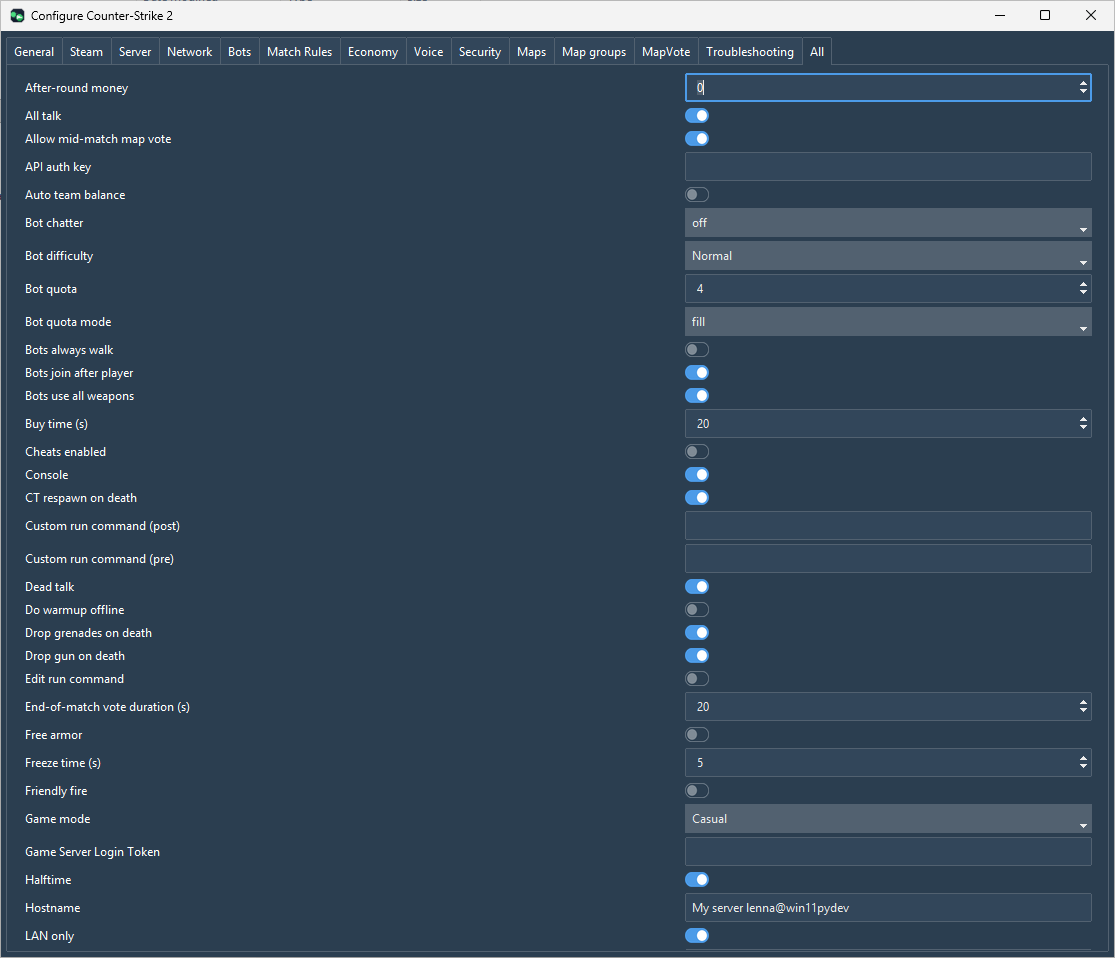
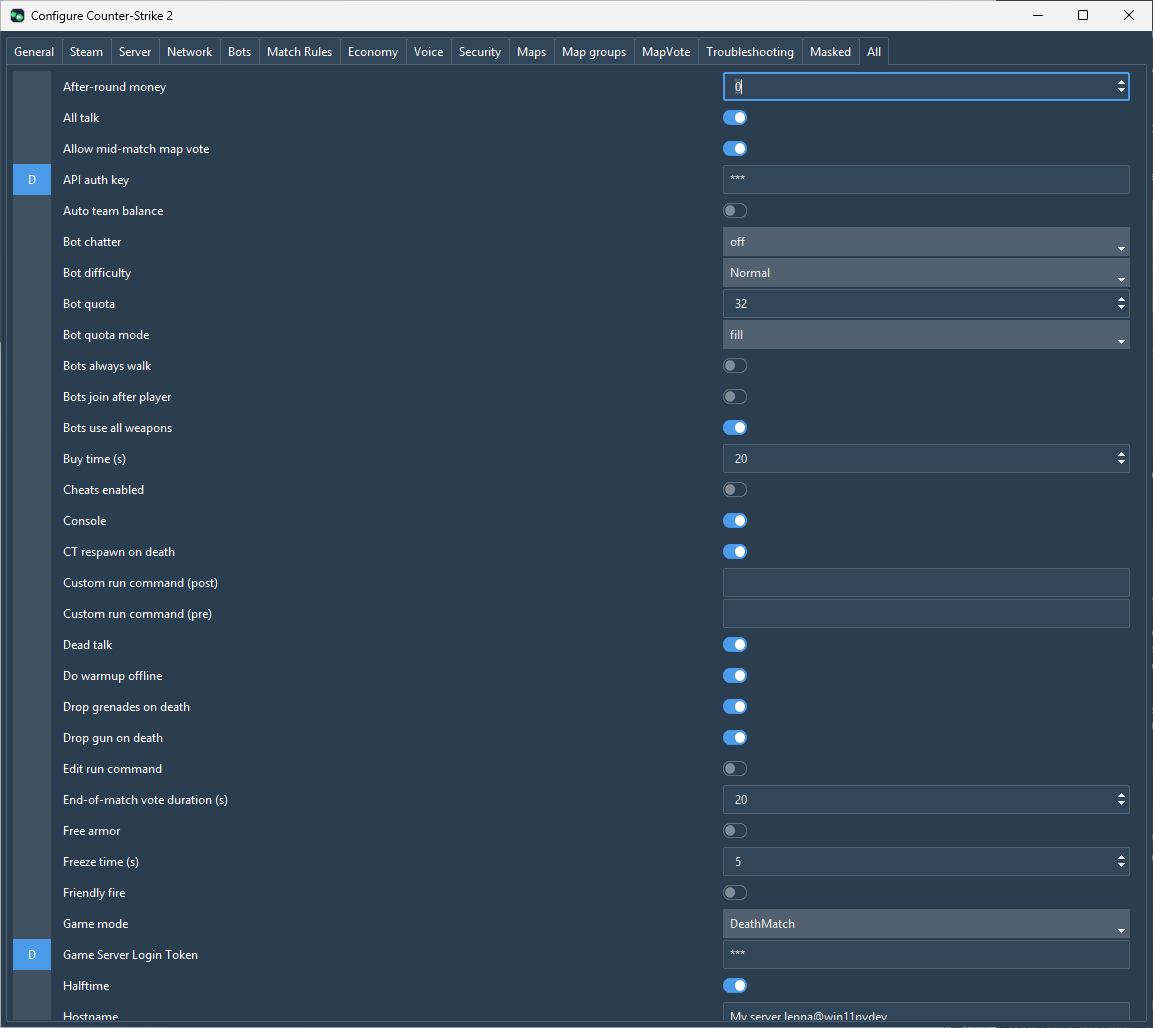
Added RCON to features + updared main window

diff --git a/FEATURES.md b/FEATURES.md
@@ -93,11 +93,17 @@ This is the typical layout of the config window. A tab for each group of paramet
 
 Config is automatically updated as you edit it, and is used directly when you start your server. There's also a manual "Save Config" button if you want to force the configuration to be saved to file. The configuration is automatically saved to file when you close the application, so it's really only necessary should you perform a large edit and the application crashes before you close it.
 
+## RCON
+
+<img src="assets/rcon_window.png" alt="RCON window">
+
+There is also an RCON window where the started server can be controlled. The RCON window contents can be saved to a file by clicking the Save button. The RCON window output will be saved in a directory "rcon_output" in the install directory.
+
 ## Terminal
 
 <img src="assets/terminal_window.png" alt="Terminal window">
 
-There is also a terminal window where all sgsl actions will end up, as well as any output from the game server. The terminal contents cant be saved to a file by clicking the Save button. The terminal output will be saved in a directory "terminal_output" in the install directory.
+There is also a terminal window where all sgsl actions will end up, as well as any output from the game server. The terminal contents can be saved to a file by clicking the Save button. The terminal output will be saved in a directory "terminal_output" in the install directory.
 
 ## Error report
 
